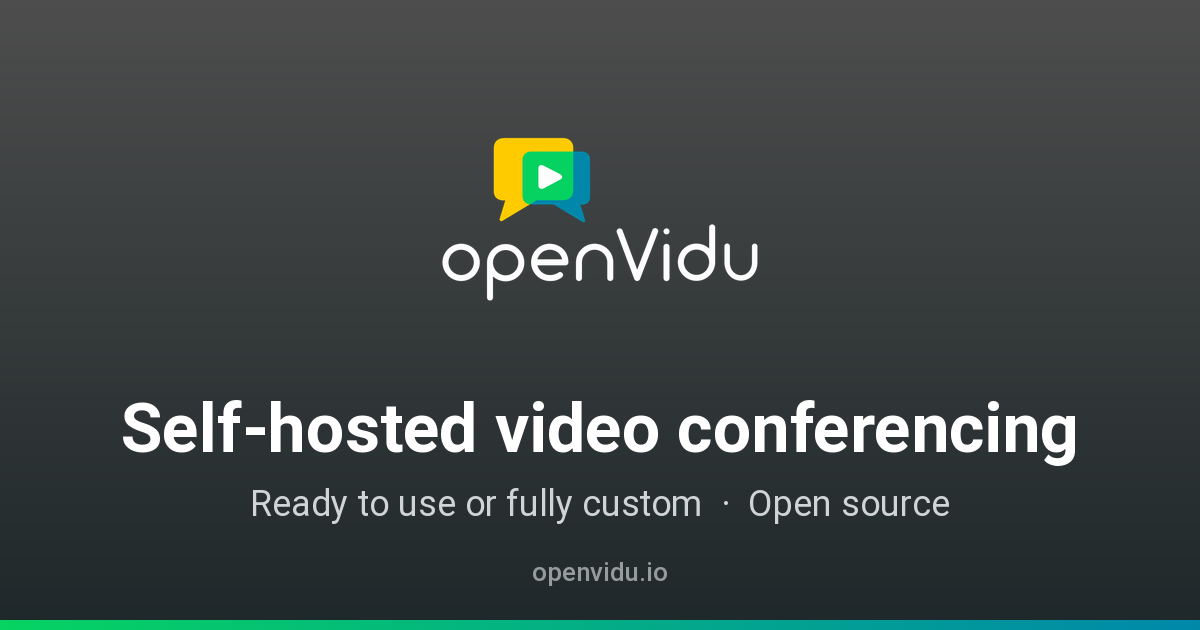
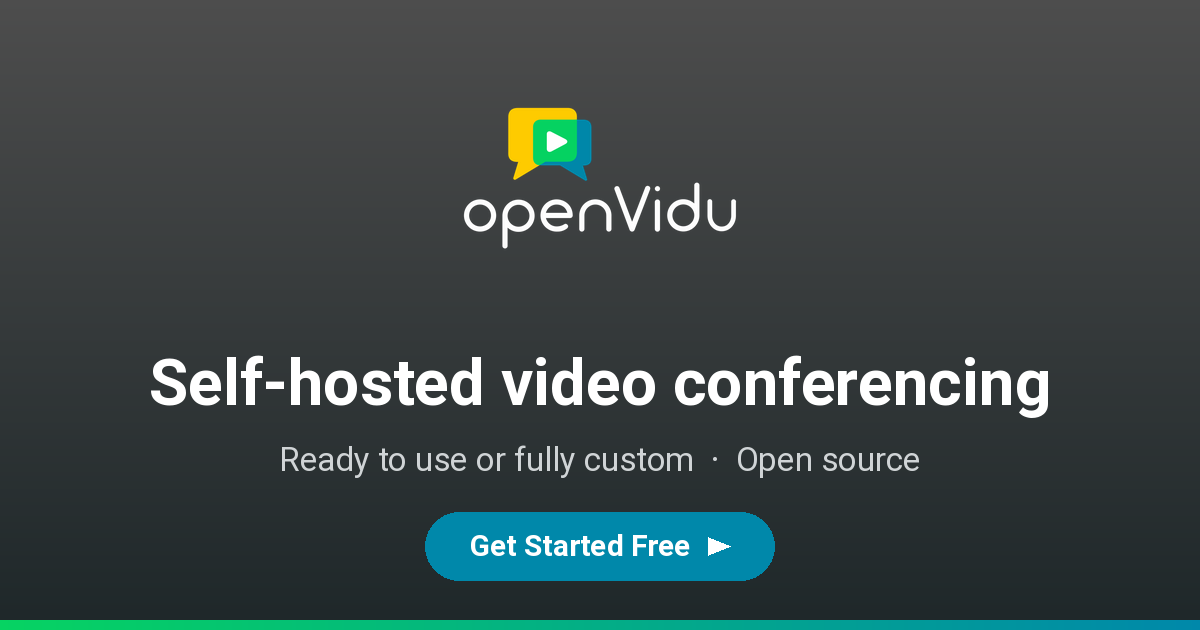
Address remaining opengraph.xyz findings: CTA, title and description length
opengraph.xyz flagged three issues on the homepage's social/SEO meta:

1. og:image had no conversion text/CTA — the site-wide card now ends
   with a "Get Started Free" pill button (site accent color, hand-drawn
   arrow triangle since Roboto lacks a unicode arrow glyph) instead of
   a plain domain caption. Logo and headline shrink slightly to make
   room; same 1200x630 card, 40 KB. Generator updated in the marketing
   repo (og-card-generator.py) and used to render the asset in place.
2. Homepage <title> was 68 chars (Google truncates around ~60):
   "Self-hosted videoconferencing and custom WebRTC solutions" ->
   "Self-hosted video conferencing & custom WebRTC" (57 chars with the
   " - OpenVidu" suffix).
3. site_description was 155 chars (fine for Google, but some social
   previews truncate around 125): trimmed to 117 chars, keeping both
   product names and "self-hosted" intact. Only used as the og:description
   fallback and Material's meta-description fallback — verified no
   visible page content depends on it (the hero H1 was decoupled from
   site_description back in the landing-hero-cta branch).

Changed region(s): [[0.0925, 0.5429, 0.8942, 0.754], [0.185, 0.7841, 0.8017, 0.9349], [0.37, 0.1508, 0.6475, 0.4825]]

diff --git a/docs/overrides/partials/og.html b/docs/overrides/partials/og.html
@@ -27,7 +27,7 @@
 {%- set og_description = og_description | replace("<br>", " ") | striptags %}
 {#- Resolve the preview image: per-post cover_image, else the site-wide card. -#}
 {%- set og_image = "https://openvidu.io/assets/images/og/openvidu-card.png" %}
-{%- set og_image_alt = "OpenVidu — Self-hosted video conferencing. Ready to use or fully custom. Open source." %}
+{%- set og_image_alt = "OpenVidu — Self-hosted video conferencing. Ready to use or fully custom. Open source. Get started free." %}
 {%- set og_image_is_card = true %}
 {%- if og_is_post and page.meta and page.meta.cover_image %}
   {%- set cover = page.meta.cover_image %}

diff --git a/docs/index.md b/docs/index.md
@@ -1,5 +1,5 @@
 ---
-title: "Self-hosted videoconferencing and custom WebRTC solutions"
+title: "Self-hosted video conferencing & custom WebRTC"
 template: home.html
 hide:
   - navigation
